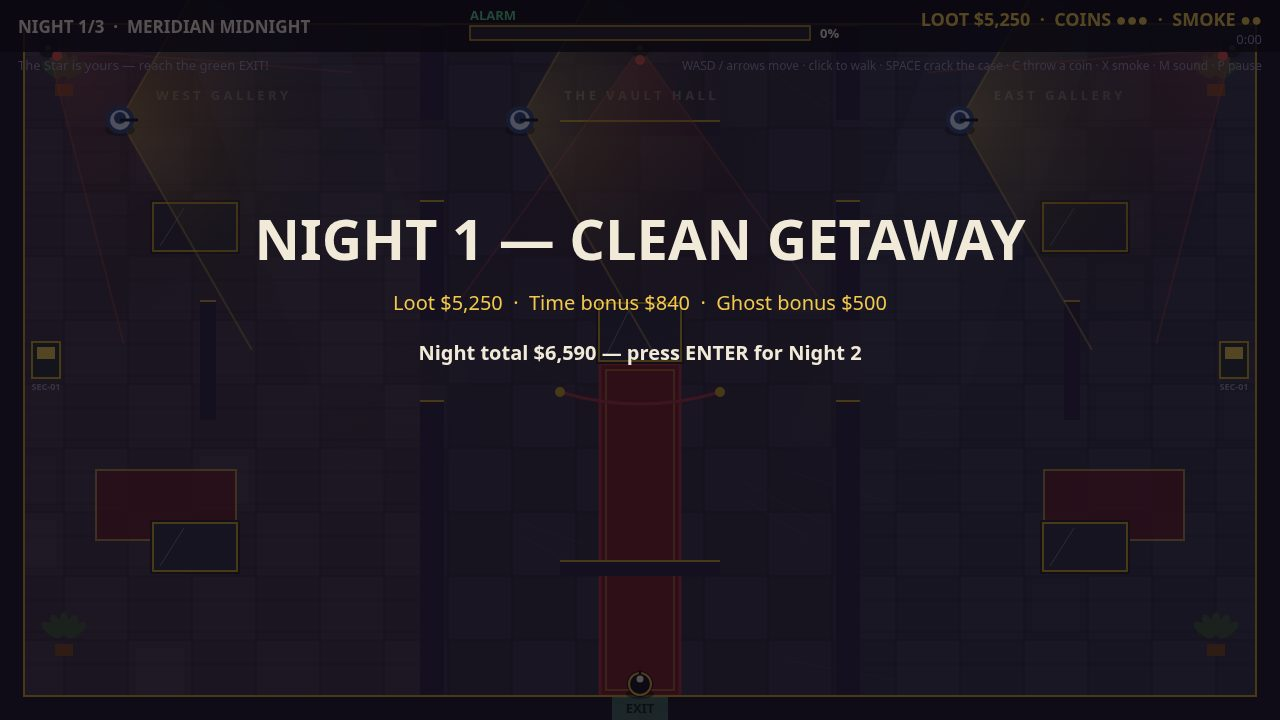
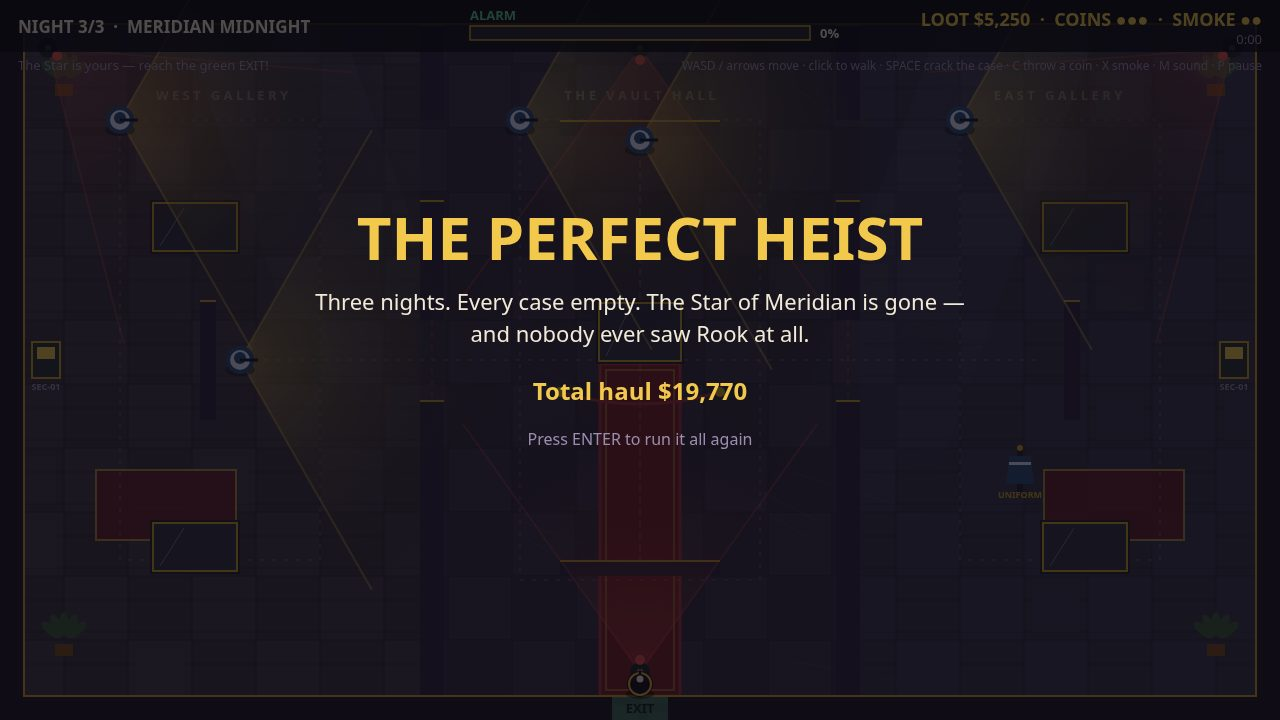
v5: guard uniform disguise, Night 3 perfect-heist win shot, patrol-route floor dots

diff --git a/game/src/render.js b/game/src/render.js
@@ -304,13 +304,43 @@ function drawTerminal(ctx, terminal, time) {
   ctx.fillText(hacked ? 'OFFLINE' : 'SEC-01', terminal.x, terminal.y + 30);
 }
 
+/** The uniform rack in the east gallery: a blue uniform on a hook, or an
+ * empty hook once Rook is wearing it. */
+function drawDisguiseRack(ctx, world) {
+  const rack = world.disguiseRack;
+  ctx.fillStyle = '#241f2e';
+  ctx.fillRect(rack.x - 3, rack.y - 22, 6, 44);
+  ctx.fillStyle = '#c9a227';
+  ctx.beginPath();
+  ctx.arc(rack.x, rack.y - 22, 3, 0, Math.PI * 2);
+  ctx.fill();
+  if (!rack.taken) {
+    ctx.fillStyle = PALETTE.guard;
+    ctx.beginPath();
+    ctx.moveTo(rack.x - 11, rack.y - 14);
+    ctx.lineTo(rack.x + 11, rack.y - 14);
+    ctx.lineTo(rack.x + 14, rack.y + 14);
+    ctx.lineTo(rack.x - 14, rack.y + 14);
+    ctx.closePath();
+    ctx.fill();
+    ctx.fillStyle = PALETTE.guardTrim;
+    ctx.fillRect(rack.x - 11, rack.y - 8, 22, 3);
+    ctx.fillStyle = '#c9a227';
+    ctx.font = `bold 9px ${FONT}`;
+    ctx.textAlign = 'center';
+    ctx.fillText('UNIFORM', rack.x, rack.y + 28);
+  }
+}
+
 function drawThief(ctx, world, time) {
   const t = world.thief;
   ctx.fillStyle = 'rgba(0, 0, 0, 0.45)';
   ctx.beginPath();
   ctx.ellipse(t.x, t.y + 10, 14, 5, 0, 0, Math.PI * 2);
   ctx.fill();
-  ctx.fillStyle = PALETTE.thief;
+  // A disguised Rook wears guard blue, gold ring and all — the player is
+  // still the one with the gold ring.
+  ctx.fillStyle = world.disguised ? PALETTE.guard : PALETTE.thief;
   ctx.beginPath();
   ctx.arc(t.x, t.y, t.radius, 0, Math.PI * 2);
   ctx.fill();
@@ -441,6 +471,21 @@ function drawRoom(ctx, world, time) {
   ctx.lineTo(760, 520);
   ctx.closePath();
   ctx.fill();
+  // Patrol routes, dotted on the floor: the cones are what a guard sees,
+  // the dots are where he walks — read them before you move.
+  ctx.strokeStyle = 'rgba(242, 234, 216, 0.16)';
+  ctx.lineWidth = 1.5;
+  ctx.setLineDash([4, 8]);
+  for (const guard of world.guards) {
+    ctx.beginPath();
+    guard.waypoints.forEach(([wx, wy], i) => {
+      if (i === 0) ctx.moveTo(wx, wy);
+      else ctx.lineTo(wx, wy);
+    });
+    ctx.closePath();
+    ctx.stroke();
+  }
+  ctx.setLineDash([]);
   // Walls with gold trim.
   ctx.fillStyle = PALETTE.wall;
   for (const s of world.solids) {
@@ -560,6 +605,12 @@ function drawHud(ctx, world) {
   ctx.fillStyle = PALETTE.muted;
   const objective = diamond.taken ? 'The Star is yours — reach the green EXIT!' : 'Steal the Star of Meridian diamond, then reach the EXIT.';
   ctx.fillText(objective, 18, 70);
+  if (world.disguised) {
+    const w = ctx.measureText(objective).width;
+    ctx.fillStyle = PALETTE.guardTrim;
+    ctx.font = `bold 13px ${FONT}`;
+    ctx.fillText(' · DISGUISED', 18 + w, 70);
+  }
   if (world.messageTimer > 0 && world.message) {
     ctx.fillStyle = world.alarm >= 70 ? '#ff8a80' : PALETTE.gold;
     ctx.font = `bold 15px ${FONT}`;
@@ -651,6 +702,7 @@ export function render(ctx, world, time, best) {
   for (const terminal of world.terminals) drawTerminal(ctx, terminal, time);
   for (const cam of world.cameras) drawCamera(ctx, cam, world.camerasDown > 0);
   for (const loot of world.loot) drawLoot(ctx, loot, time);
+  drawDisguiseRack(ctx, world);
   for (const guard of world.guards) drawGuard(ctx, guard, time);
   drawThief(ctx, world, time);
   drawSmoke(ctx, world);
@@ -684,7 +736,7 @@ export function render(ctx, world, time, best) {
     ctx.fillText('One thief. One diamond. Three nights in the Meridian Museum.', FIELD.width / 2, 375);
     ctx.fillStyle = PALETTE.text;
     ctx.font = `17px ${FONT}`;
-    ctx.fillText('Dodge the guards’ cones, toss a coin to pull one away, drop smoke to vanish, hack a terminal to blind the cameras, crack the case — and vanish.', FIELD.width / 2, 410);
+    ctx.fillText('Dodge the cones, toss a coin, drop smoke, wear a guard’s uniform, hack a terminal, crack the case — and vanish.', FIELD.width / 2, 410);
     ctx.fillStyle = PALETTE.gold;
     ctx.font = `bold 20px ${FONT}`;
     ctx.fillText('Press ENTER to begin the heist', FIELD.width / 2, 470);

diff --git a/game/src/world.js b/game/src/world.js
@@ -1,7 +1,7 @@
 // Meridian Midnight: the museum, its guards, cameras, lasers and loot.
 // One fixed step of simulation, pure rules, no drawing and no input devices.
 
-import { ALARM, CAMERA, COIN, CRACK, FIELD, GUARD, LOOT_VALUES, NIGHTS, SMOKE, STEP, TERMINAL, THIEF } from './config.js';
+import { ALARM, CAMERA, COIN, CRACK, DISGUISE, FIELD, GUARD, LOOT_VALUES, NIGHTS, SMOKE, STEP, TERMINAL, THIEF } from './config.js';
 import { angleDiff, angleTo, clamp, dist, mulberry32 } from './random.js';
 
 /** Screens the game can be on. */
@@ -209,6 +209,10 @@ export function createWorld(night, seed) {
     // Smoke bombs are a limited tool: two a night, dropped at Rook's feet.
     smokeBombs: SMOKE.count,
     smoke: [],
+    // A guard's uniform hangs on a rack in the east gallery; wearing it
+    // makes guards look straight past Rook unless he comes close.
+    disguised: false,
+    disguiseRack: { x: DISGUISE.rackX, y: DISGUISE.rackY, taken: false },
     // Where the safe-crack dial's gold zone starts; it jumps on every hit.
     crackZone: 0.5,
     thief: { x: 640, y: 660, radius: THIEF.radius, crack: 0, hack: 0, moving: false, face: -Math.PI / 2 },
@@ -327,6 +331,16 @@ export function stepWorld(world, input, dt) {
   for (const cloud of world.smoke) cloud.life -= dt;
   world.smoke = world.smoke.filter((c) => c.life > 0);
 
+  // --- The uniform: walk over the rack to wear it. One per night.
+  const rack = world.disguiseRack;
+  if (!rack.taken && dist(thief.x, thief.y, rack.x, rack.y) < DISGUISE.pickupRange) {
+    rack.taken = true;
+    world.disguised = true;
+    world.floaters.push({ x: thief.x, y: thief.y - 24, text: 'DISGUISED!', life: 1.6, max: 1.6 });
+    world.message = "Guard uniform — they won't look twice... unless you're close.";
+    world.messageTimer = 3;
+  }
+
   // --- Loot: touch to grab; the diamond needs the crack minigame.
   const diamond = world.loot.find((l) => l.kind === 'diamond');
   let nearDiamond = false;
@@ -363,6 +377,11 @@ export function stepWorld(world, input, dt) {
           world.lootValue += diamond.value;
           burst(world, diamond.x, diamond.y, '#9be8ff', 26);
           world.floaters.push({ x: diamond.x, y: diamond.y - 20, text: `+$${diamond.value}`, life: 1.4, max: 1.4 });
+          // The Star is too obvious to hide: taking it blows the cover.
+          if (world.disguised) {
+            world.disguised = false;
+            world.floaters.push({ x: thief.x, y: thief.y - 24, text: 'COVER BLOWN!', life: 1.6, max: 1.6 });
+          }
           world.message = 'The Star of Meridian is yours — get to the EXIT!';
           world.messageTimer = 3.5;
         }
@@ -409,7 +428,10 @@ export function stepWorld(world, input, dt) {
   // --- Guards patrol, suspect, chase.
   let seenByGuard = false;
   for (const guard of world.guards) {
-    const sees = canSee({ x: guard.x, y: guard.y, dir: guard.dir }, GUARD.coneRange, GUARD.coneHalf, world);
+    // A disguised Rook reads as a fellow guard past close range; cameras
+    // are machines and see straight through the uniform.
+    const sees = canSee({ x: guard.x, y: guard.y, dir: guard.dir }, GUARD.coneRange, GUARD.coneHalf, world)
+      && !(world.disguised && dist(guard.x, guard.y, thief.x, thief.y) > DISGUISE.closeRange);
     if (sees) {
       seenByGuard = true;
       guard.exposure += dt;

diff --git a/game/src/shots.js b/game/src/shots.js
@@ -4,7 +4,7 @@
 // door gaps, so every frame is what a short game really looks like and the
 // same seed always gives the same frame.
 
-import { SCREEN_CLEAR, SCREEN_PLAY, stepWorld } from './world.js';
+import { SCREEN_PLAY, SCREEN_WIN, stepWorld } from './world.js';
 import { CRACK, SMOKE, STEP } from './config.js';
 
 const START_SECONDS = 1;
@@ -17,10 +17,14 @@ function zone(x) {
 }
 
 /** The door gap between two neighbouring rooms: the one nearer the thief,
- * so the autopilot uses both gaps the rooms offer. */
+ * so the autopilot uses both gaps the rooms offer. The waypoint sits 24px
+ * past the divider's far face — the old version aimed at the divider's
+ * centre, and the autopilot's "arrived" check (within 10px) fired while
+ * the thief still stood in the old room, so he waited at the door forever. */
 function doorBetween(a, b, y) {
   const low = Math.min(a, b);
-  const x = low === 0 ? 432 : 848;
+  const westFace = low === 0 ? 420 : 836;
+  const x = b > a ? westFace + 48 : westFace - 24;
   return { x, y: Math.abs(160 - y) < Math.abs(360 - y) ? 160 : 360 };
 }
 
@@ -81,6 +85,13 @@ export function stageShot(name, world) {
     world.status = SCREEN_PLAY;
     world.thief.x = 760;
     world.thief.y = 480;
+    // Rook is already in uniform for this shot — the frame shows the
+    // disguise in use at the case (blue Rook, DISGUISED badge). The pickup
+    // itself is proven by the node tests, not by a detour: walking to the
+    // rack first delays the crack into a camera sweep and the alarm jumps,
+    // and the play frame is supposed to be the calm one.
+    world.disguiseRack.taken = true;
+    world.disguised = true;
     // Freeze mid-crack: the dial, the needle and two filled pips show the
     // signature interaction in the frame; the win shot proves the full haul.
     const steps = Math.floor(PLAY_SECONDS / STEP);
@@ -126,6 +137,9 @@ export function stageShot(name, world) {
     return { screen: SCREEN_PLAY };
   }
   if (name === 'win') {
+    // Night 3, the perfect heist: every case empty across all three nights,
+    // the whole haul on the screen — the payoff frame, not one night's getaway.
+    world.night = 3;
     for (const item of world.loot) {
       if (!item.taken) {
         item.taken = true;
@@ -134,10 +148,10 @@ export function stageShot(name, world) {
     }
     world.thief.x = 640;
     world.thief.y = 684;
-    world.nightBonus = 840;
-    world.ghostBonus = 500;
-    world.status = SCREEN_CLEAR;
-    return { screen: SCREEN_CLEAR };
+    // Three nights of loot ($5,250 each) plus time and ghost bonuses.
+    world.score = 19770;
+    world.status = SCREEN_WIN;
+    return { screen: SCREEN_WIN };
   }
   world.status = SCREEN_PLAY;
   simulate(world, START_SECONDS, () => ({ mx: 0, my: -1, tx: null, ty: null }));

diff --git a/game/src/config.js b/game/src/config.js
@@ -53,6 +53,22 @@ export const SMOKE = {
   seconds: 5,
 };
 
+/** A guard's uniform on a rack in the east gallery: walk over it to wear
+ * it. Guards ignore a disguised Rook unless he comes close — cameras are
+ * machines and see straight through it — and the cover is blown the moment
+ * the diamond is taken. One uniform per night, and it never comes back.
+ * The rack stands south of the east stub, so the autopilot's straight
+ * walk to it never has to cross a wall. */
+export const DISGUISE = {
+  /** Where the rack stands. */
+  rackX: 1020,
+  rackY: 470,
+  /** How close Rook must walk to pick the uniform up. */
+  pickupRange: 30,
+  /** Inside this distance a guard sees through the disguise. */
+  closeRange: 70,
+};
+
 /** Security terminals: stand at one and hold still to hack it. */
 export const TERMINAL = {
   radius: 16,

diff --git a/README.md b/README.md
@@ -22,7 +22,9 @@ Then open http://localhost:8080 in a desktop browser. No build step, no network 
 - Each room connects to the next through **two door gaps**, so every crossing is a choice: the middle gap or the top gap, whichever the patrols leave open.
 - **Coins** are a limited tool — three a night. Press **C** to toss one ahead of you: any guard close enough leaves his patrol to investigate the clink.
 - **Smoke bombs** are a second limited tool — two a night. Press **X** to drop one at your feet: the cloud hangs for 5 seconds and blinds every guard and camera whose sight crosses it, so a chase can be broken by vanishing inside it.
+- **A guard's uniform** hangs on a rack in the east gallery. Walk over it to wear it: guards look straight past you unless you come within a few steps — but cameras see through it, and the cover is blown the moment you take the Star. One uniform per night.
 - **Night 3 is the gala**: the museum rearranges the gallery — the paintings move into the vault hall flanking the diamond, and the bust, vase and idol rotate to the opposite pedestals. Same museum, different route, more guards, one more laser.
+- Every guard's **patrol route is dotted on the floor** — read the dots before you move.
 - The diamond case is a **timing crack**: a needle sweeps a dial, and **SPACE** inside the gold zone lands a hit. Three hits crack the case; a press outside the zone slips the pick and jumps the alarm.
 - The museum itself reacts: a low pulse quickens as the alarm rises, and every room has its own floor — parquet in the galleries, veined marble in the vault hall.
 - At **100% alarm** the museum locks down and every guard runs at you. If one catches you, the night is over.
